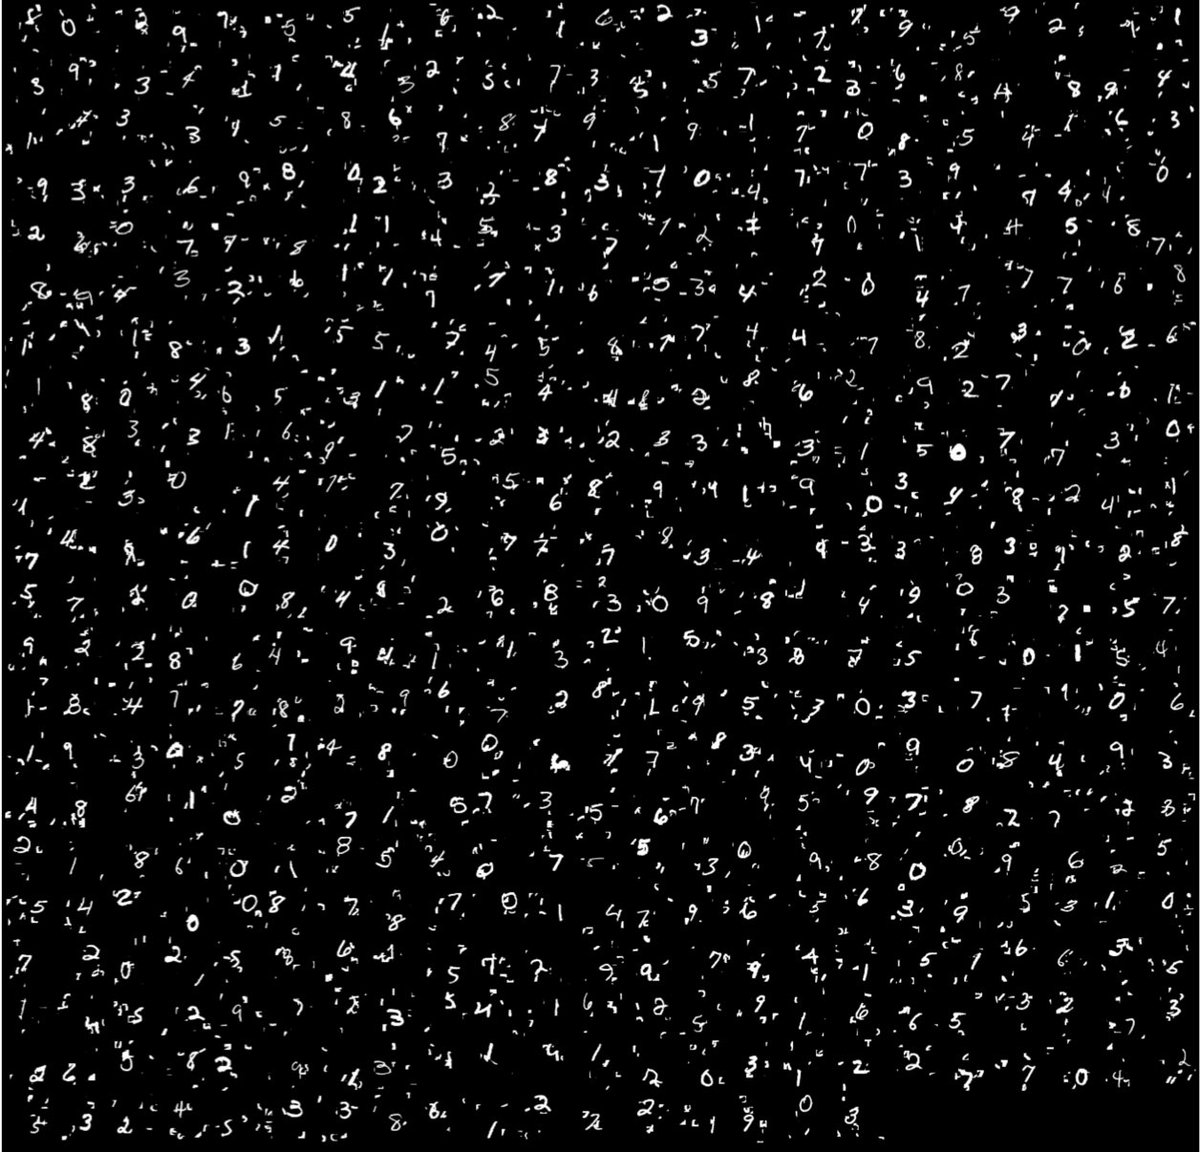
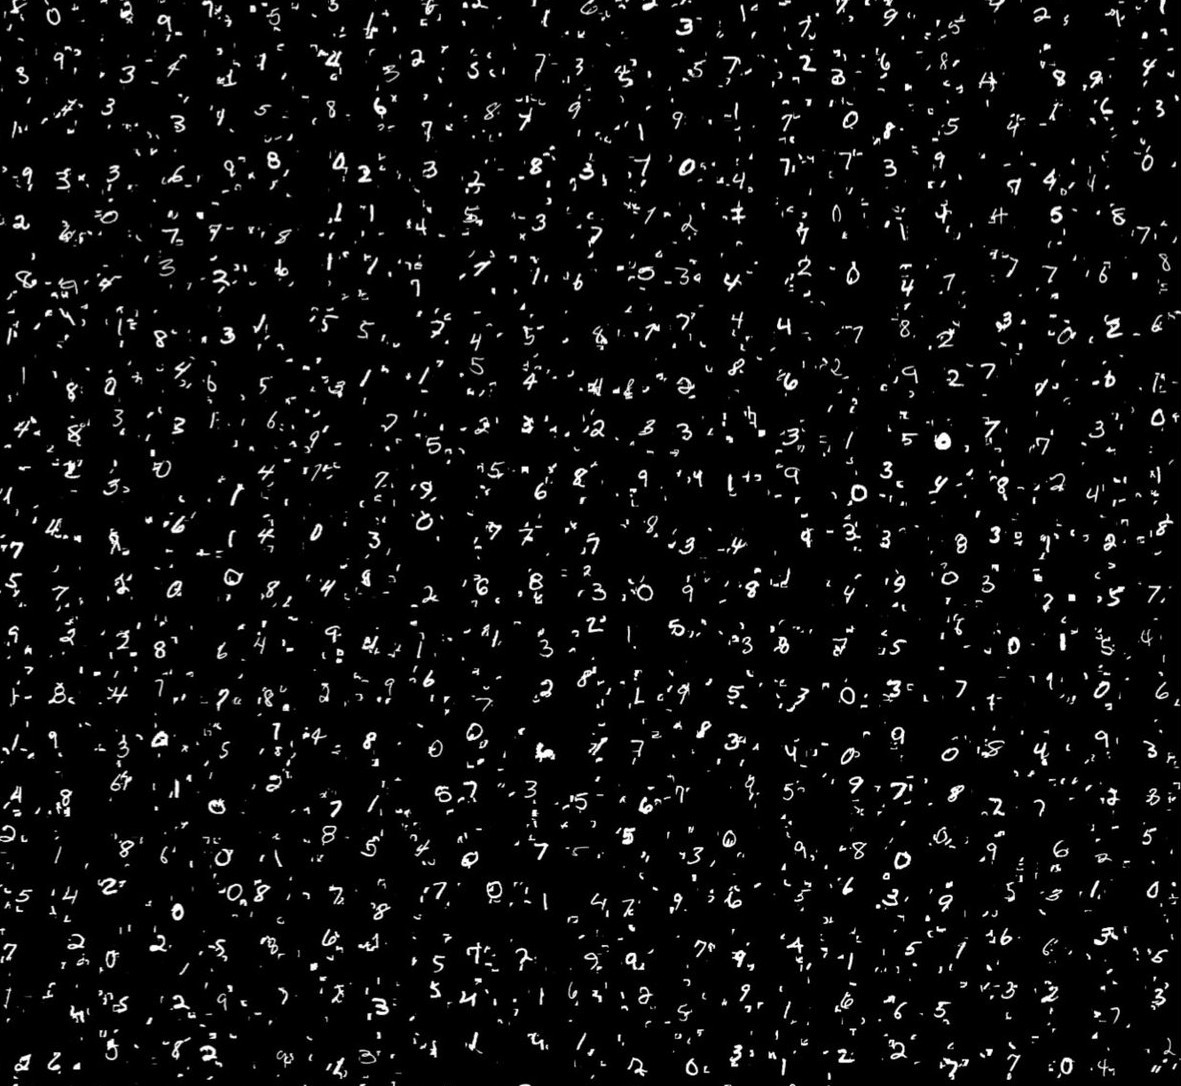
post background

diff --git a/_layouts/post.html b/_layouts/post.html
@@ -4,7 +4,6 @@ layout: default
 {% include header.html %}
 
 <main class="post_content">
-        <img src={{ "/assets/img/" | prepend: site.baseurl | append : page.img}} alt="{{page.title}}">
   <article class="post">
     <header>
       <div class="post_description">

diff --git a/_posts/2018-11-14-mnist_example.html b/_posts/2018-11-14-mnist_example.html
@@ -34,7 +34,8 @@ html {
 body {
     margin: 0;
     background-color: rgb(38, 38, 38) !important;
-
+    background-size: cover;
+    background-image: url(/assets/img/mnist.jpg);
 }
 article,
 aside,
